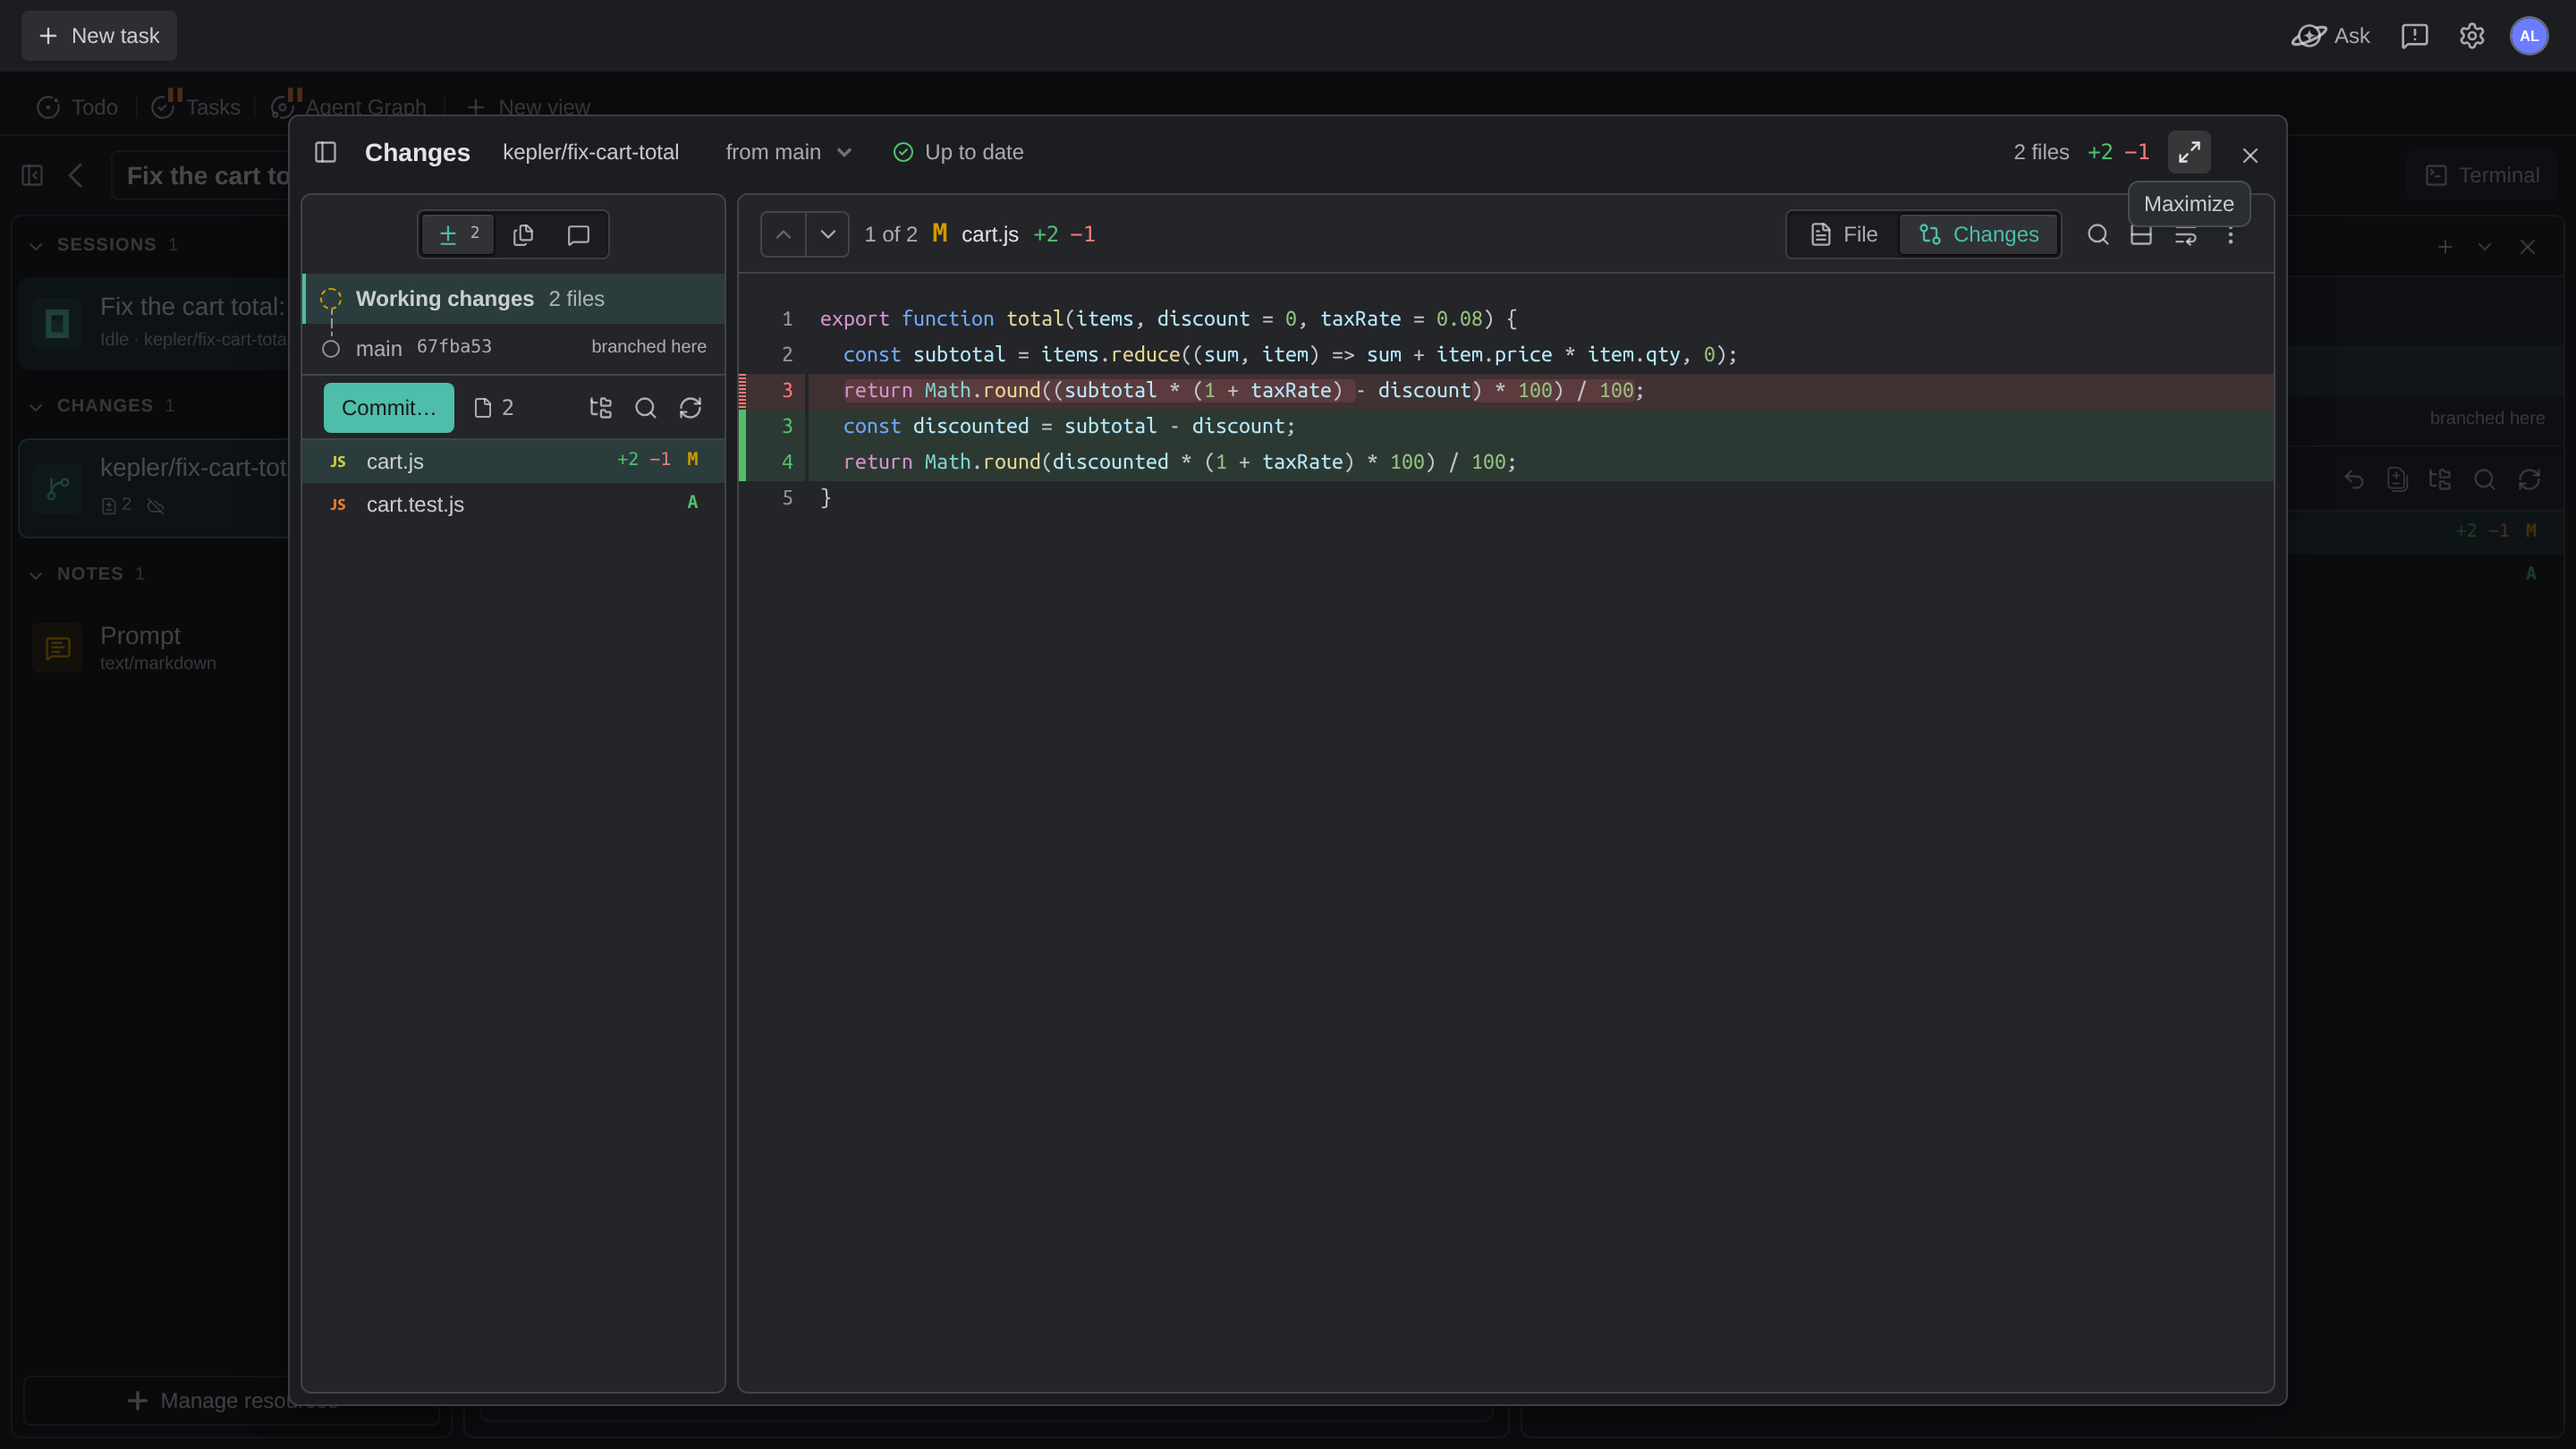
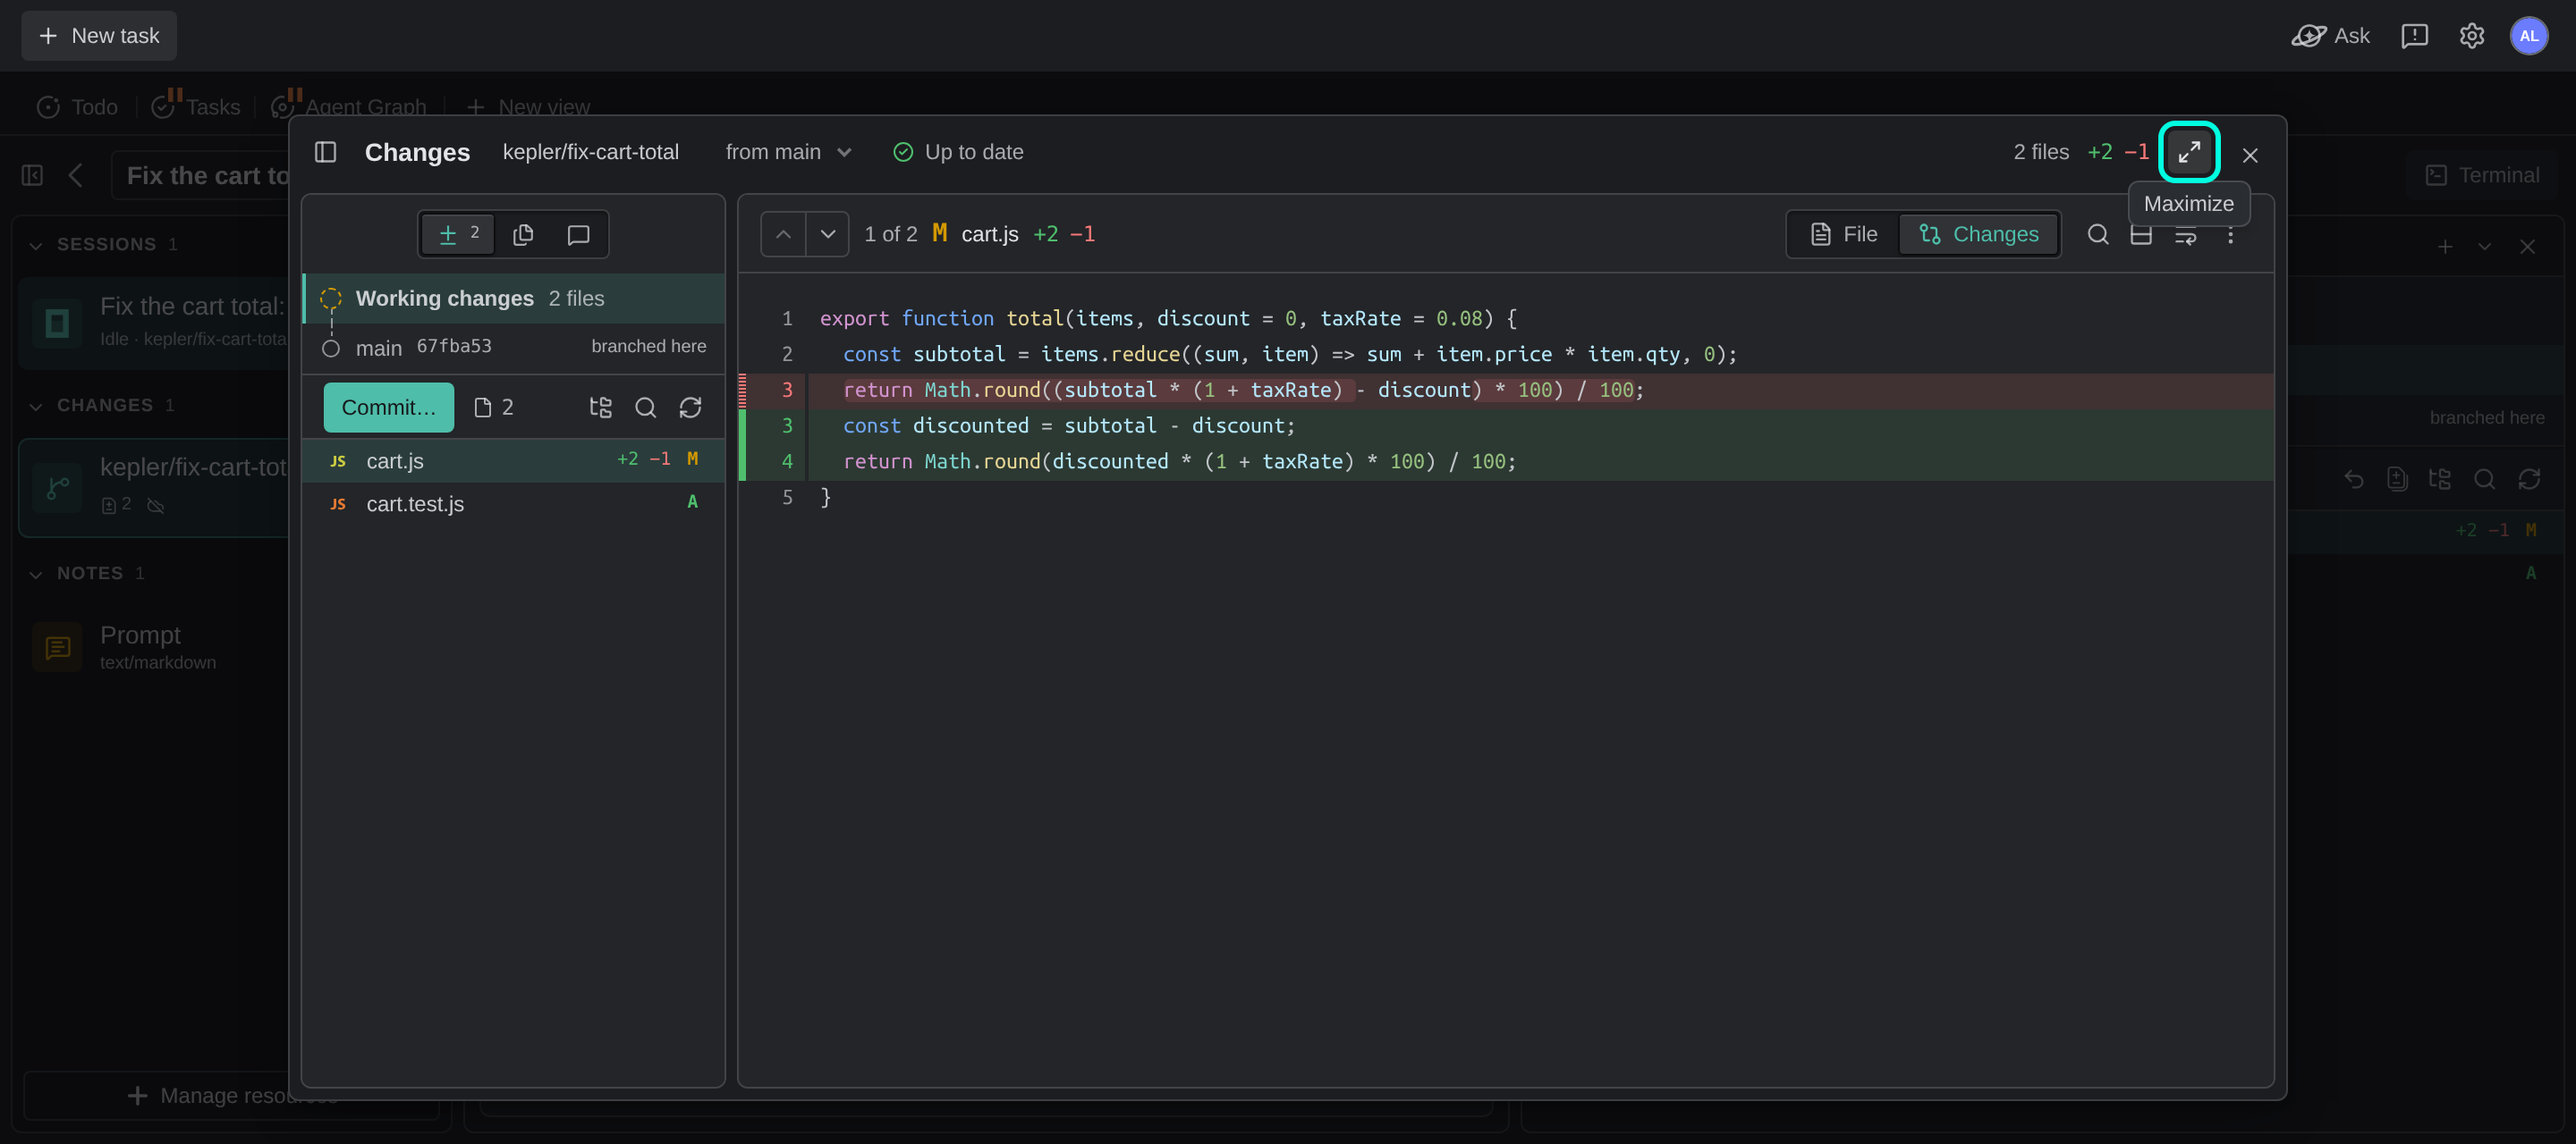
Polish three figures: narrower quote-block frame, shorter onboarding and Changes overlay frames, Maximize ringed

diff --git a/kepler/review-changes.md b/kepler/review-changes.md
@@ -113,7 +113,7 @@ To open the Changes overlay, click a file, or choose **Open changes** from the w
 
 <figure style="text-align:center">
   <a href="/wp-content/uploads/changes-overlay-maximize-oct-2026-v4@2x.png" target="_blank" rel="noopener noreferrer">
-    <img src="/wp-content/uploads/changes-overlay-maximize-oct-2026-v4@2x.png" class="help-center-img img-bordered" alt="The Changes overlay for kepler/fix-cart-total open over the task page at its default width, with the task page showing dimmed around it, and the Maximize button in the overlay's header hovered, its tooltip reading Maximize. The header also reads from main and Up to date; the overlay's side list has the Changes (2), Files and Comments view buttons over Working changes, 2 files and main branched here, then Commit… and the two changed files, beside cart.js's diff. The context panel behind ends with Manage resources.">
+    <img src="/wp-content/uploads/changes-overlay-maximize-oct-2026-v4@2x.png" class="help-center-img img-bordered" alt="The Changes overlay for kepler/fix-cart-total open over the task page at its default width, with the task page showing dimmed around it, and the Maximize button in the overlay's header ringed and hovered, its tooltip reading Maximize. The header also reads from main and Up to date; the overlay's side list has the view switch's icon buttons for Changes (2), Files and Comments over Working changes, 2 files and main branched here, then Commit… and the two changed files, beside cart.js's diff. The context panel behind ends with Manage resources.">
   </a>
   <figcaption style="text-align:center; color:#888">The Changes overlay at its default width, with Maximize in its header.</figcaption>
 </figure>
